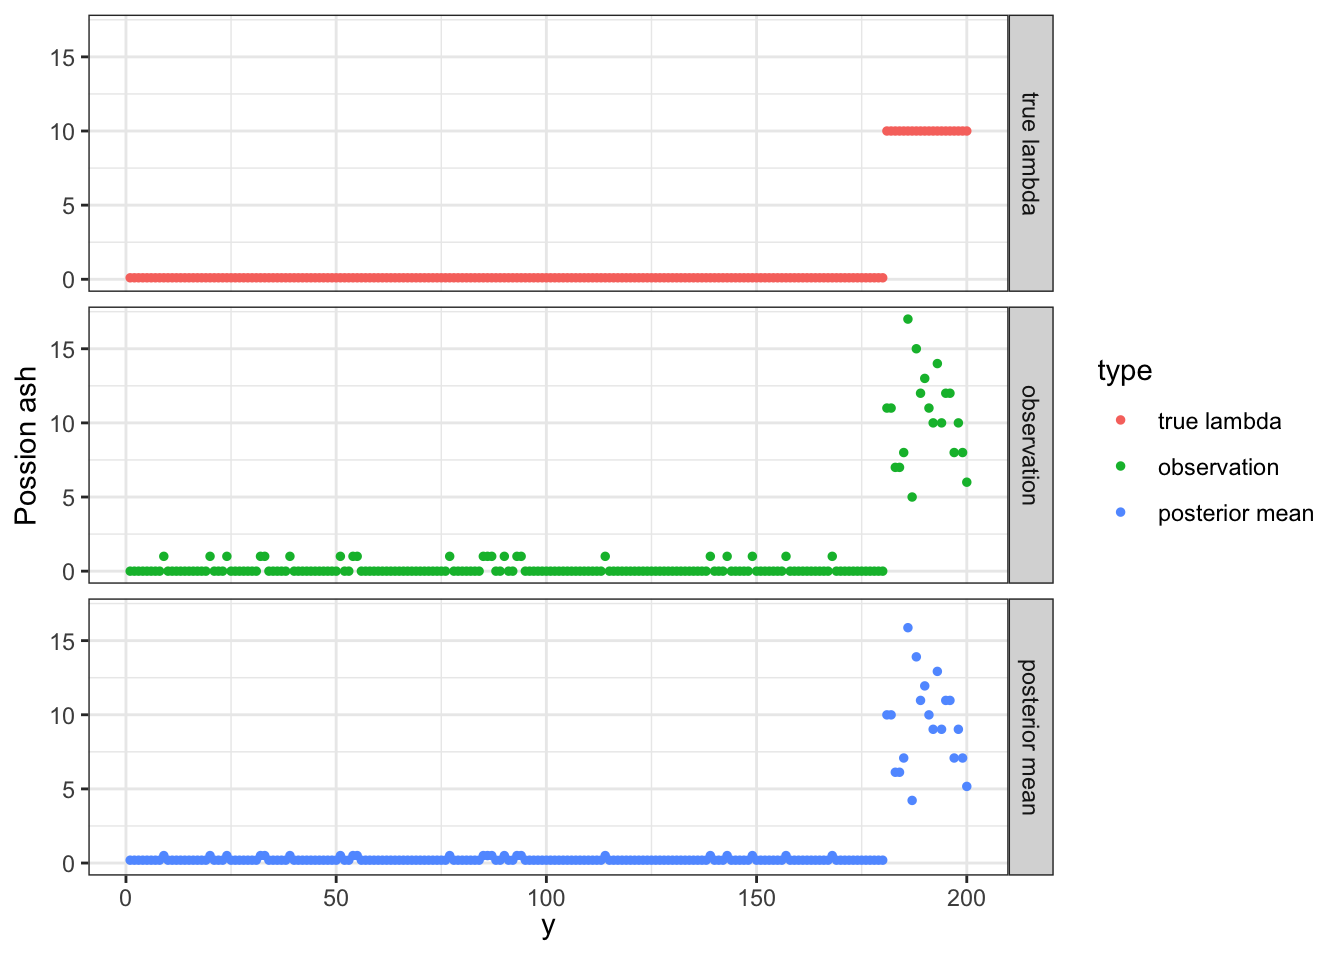
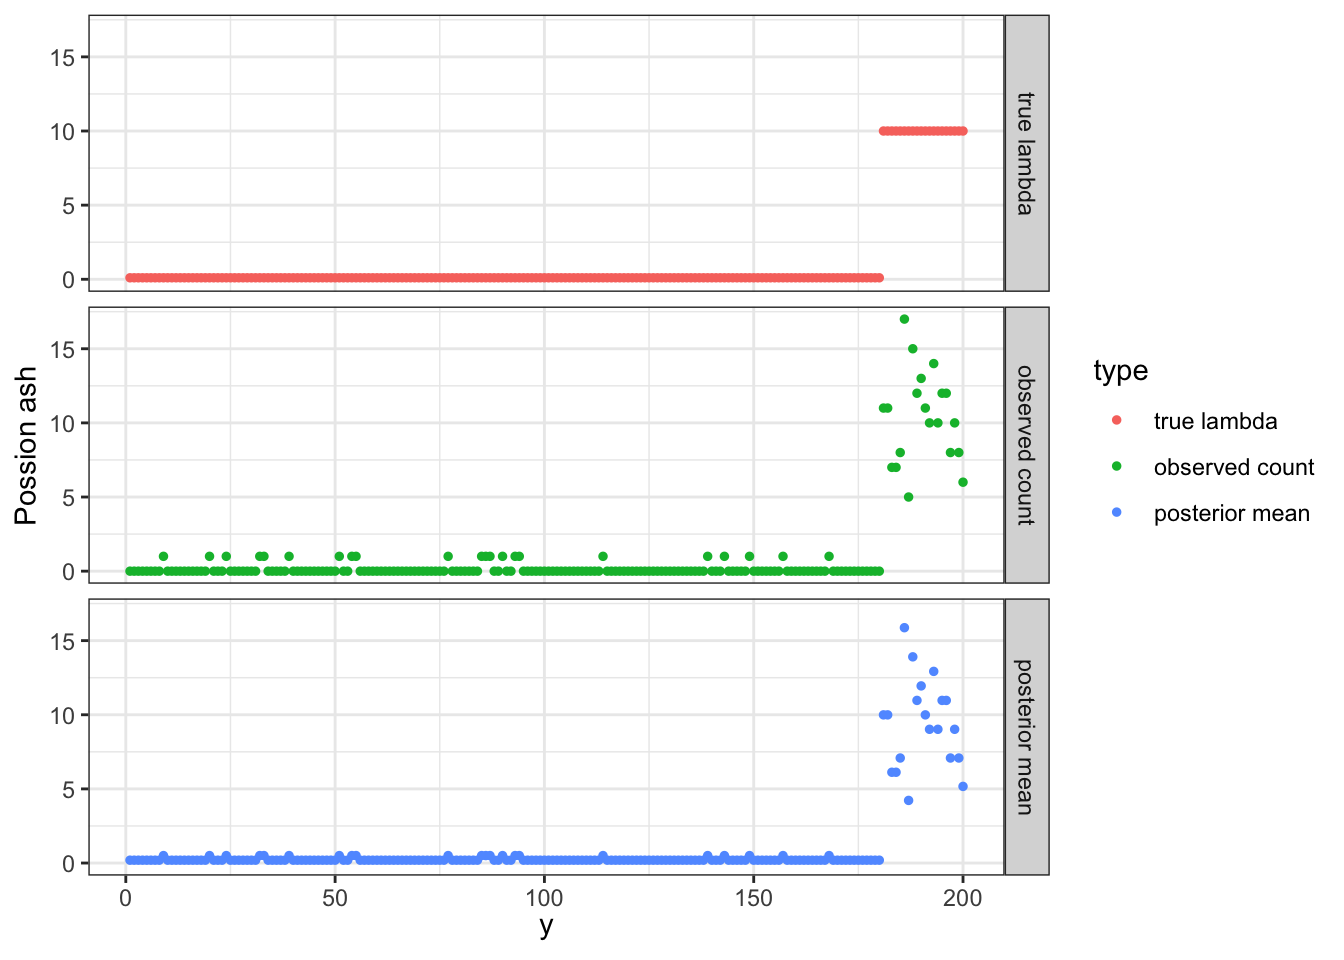
Build site.

diff --git a/docs/first-analysis.html b/docs/first-analysis.html
@@ -504,16 +504,16 @@ This reproducible <a href="http://rmarkdown.rstudio.com">R Markdown</a> analysis
 <div class="panel panel-default">
 <div class="panel-heading">
 <p class="panel-title">
-<a data-toggle="collapse" data-parent="#workflowr-checks" href="#strongRepositoryversionstrongahrefhttpsgithubcomYushaLiupoissonashnormalmixtree5a7965272bd597ea9949963b3ed958c5db56276btargetblank5a79652a"> <span class="glyphicon glyphicon-ok text-success" aria-hidden="true"></span> <strong>Repository version:</strong> <a href="https://github.com/YushaLiu/poisson_ash_normalmix/tree/5a7965272bd597ea9949963b3ed958c5db56276b" target="_blank">5a79652</a> </a>
+<a data-toggle="collapse" data-parent="#workflowr-checks" href="#strongRepositoryversionstrongahrefhttpsgithubcomYushaLiupoissonashnormalmixtree842d1356a72db8483399d84de9ef70c229239815targetblank842d135a"> <span class="glyphicon glyphicon-ok text-success" aria-hidden="true"></span> <strong>Repository version:</strong> <a href="https://github.com/YushaLiu/poisson_ash_normalmix/tree/842d1356a72db8483399d84de9ef70c229239815" target="_blank">842d135</a> </a>
 </p>
 </div>
[2 lines of base64/hex data omitted]
 <div class="panel-body">
 <p>
 Great! You are using Git for version control. Tracking code development and connecting the code version to the results is critical for reproducibility.
 </p>
 <p>
-The results in this page were generated with repository version <a href="https://github.com/YushaLiu/poisson_ash_normalmix/tree/5a7965272bd597ea9949963b3ed958c5db56276b" target="_blank">5a79652</a>. See the <em>Past versions</em> tab to see a history of the changes made to the R Markdown and HTML files.
+The results in this page were generated with repository version <a href="https://github.com/YushaLiu/poisson_ash_normalmix/tree/842d1356a72db8483399d84de9ef70c229239815" target="_blank">842d135</a>. See the <em>Past versions</em> tab to see a history of the changes made to the R Markdown and HTML files.
 </p>
 <p>
 Note that you need to be careful to ensure that all relevant files for the analysis have been committed to Git prior to generating the results (you can use <code>wflow_publish</code> or <code>wflow_git_commit</code>). workflowr only checks the R Markdown file, but you know if there are other scripts or data files that it depends on. Below is the status of the Git repository when the results were generated:
@@ -562,6 +562,40 @@ Message
 </tr>
 </thead>
 <tbody>
+<tr>
+<td>
+Rmd
+</td>
+<td>
+<a href="https://github.com/YushaLiu/poisson_ash_normalmix/blob/842d1356a72db8483399d84de9ef70c229239815/analysis/first-analysis.Rmd" target="_blank">842d135</a>
+</td>
+<td>
+yushaliu
+</td>
+<td>
+2020-06-09
+</td>
+<td>
+Add my first analysis
+</td>
+</tr>
+<tr>
+<td>
+html
+</td>
+<td>
+<a href="https://rawcdn.githack.com/YushaLiu/poisson_ash_normalmix/aaea64f77314587c34b690c0d770d9297302e1c0/docs/first-analysis.html" target="_blank">aaea64f</a>
+</td>
+<td>
+yushaliu
+</td>
+<td>
+2020-06-09
+</td>
+<td>
+Build site.
+</td>
+</tr>
 <tr>
 <td>
 Rmd
@@ -620,7 +654,6 @@ y &lt;- rpois(n,lambdasparse); s &lt;- rep(1, n)</code></pre>
 <h3>Fit Poisson ash</h3>
 <pre class="r"><code>sigma2 &lt;- c(1e-6, 1e-5, 1e-4, 4e-4, 1e-3, 4e-3, 1e-2, 2e-2, 4e-2, 8e-2, 0.16, 0.32, 0.64, 1, 2, 4, 8, 16)
 
-RUNTIME = c()
 start_time = proc.time()
 fit &lt;- pois_ash(y, s, sigma2, init=NULL, maxiter=200, tol=1e-6, verbose=FALSE)
 lambda.pm &lt;- rowSums(fit$Ez * exp(fit$mu + fit$m + fit$v2/2))
@@ -631,10 +664,47 @@ runtime = proc.time() - start_time</code></pre>
 <pre class="r"><code>## ELBO plot over iteration
 plot(fit$ELBO, xlab = &quot;niter&quot;, ylab = &quot;elbo&quot;)</code></pre>
 <p><img src="figure/first-analysis.Rmd/unnamed-chunk-4-1.png" width="672" style="display: block; margin: auto;" /></p>
+<p>
+<button type="button" class="btn btn-default btn-xs btn-workflowr btn-workflowr-fig" data-toggle="collapse" data-target="#fig-unnamed-chunk-4-1">
+Past versions of unnamed-chunk-4-1.png
+</button>
+</p>
+<div id="fig-unnamed-chunk-4-1" class="collapse">
+<div class="table-responsive">
+<table class="table table-condensed table-hover">
+<thead>
+<tr>
+<th>
+Version
+</th>
+<th>
+Author
+</th>
+<th>
+Date
+</th>
+</tr>
+</thead>
+<tbody>
+<tr>
+<td>
+<a href="https://github.com/YushaLiu/poisson_ash_normalmix/blob/aaea64f77314587c34b690c0d770d9297302e1c0/docs/figure/first-analysis.Rmd/unnamed-chunk-4-1.png" target="_blank">aaea64f</a>
+</td>
+<td>
+yushaliu
+</td>
+<td>
+2020-06-09
+</td>
+</tr>
+</tbody>
+</table>
+</div>
+</div>
 <pre class="r"><code>## running time
 runtime</code></pre>
 <pre><code>   user  system elapsed 
- 14.363   2.082  16.457 </code></pre>
+ 14.520   2.165  16.694 </code></pre>
 </div>
 <div id="check-results" class="section level3">
 <h3>Check results</h3>
@@ -646,12 +716,49 @@ fit$pi</code></pre>
 [16] 5.789069e-01 1.000000e-08 1.000000e-08</code></pre>
 <pre class="r"><code>## compare posterior mean with the observed count and true lambda
 post.data = rbind(data.frame(type = &quot;true lambda&quot;, values=lambdasparse, x=seq(1:n)),
-                  data.frame(type = &quot;observation&quot;, values=y, x=seq(1:n)),
+                  data.frame(type = &quot;observed count&quot;, values=y, x=seq(1:n)),
                   data.frame(type = &quot;posterior mean&quot;, values=lambda.pm, x=seq(1:n)))
 
 ggplot(post.data, aes(x=x, y=values, group=type, colour=type)) + 
   geom_point(aes(colour = type),size = 1) + ylab(&quot;Possion ash&quot;) + xlab(expression(y))+facet_grid(type~.,scales=&quot;free_y&quot;) + ylim(range(y))</code></pre>
 <p><img src="figure/first-analysis.Rmd/unnamed-chunk-5-1.png" width="672" style="display: block; margin: auto;" /></p>
+<p>
+<button type="button" class="btn btn-default btn-xs btn-workflowr btn-workflowr-fig" data-toggle="collapse" data-target="#fig-unnamed-chunk-5-1">
+Past versions of unnamed-chunk-5-1.png
+</button>
+</p>
+<div id="fig-unnamed-chunk-5-1" class="collapse">
+<div class="table-responsive">
+<table class="table table-condensed table-hover">
+<thead>
+<tr>
+<th>
+Version
+</th>
+<th>
+Author
+</th>
+<th>
+Date
+</th>
+</tr>
+</thead>
+<tbody>
+<tr>
+<td>
+<a href="https://github.com/YushaLiu/poisson_ash_normalmix/blob/aaea64f77314587c34b690c0d770d9297302e1c0/docs/figure/first-analysis.Rmd/unnamed-chunk-5-1.png" target="_blank">aaea64f</a>
+</td>
+<td>
+yushaliu
+</td>
+<td>
+2020-06-09
+</td>
+</tr>
+</tbody>
+</table>
+</div>
+</div>
 <br>
 <p>
 <button type="button" class="btn btn-default btn-workflowr btn-workflowr-sessioninfo" data-toggle="collapse" data-target="#workflowr-sessioninfo" style="display: block;">
